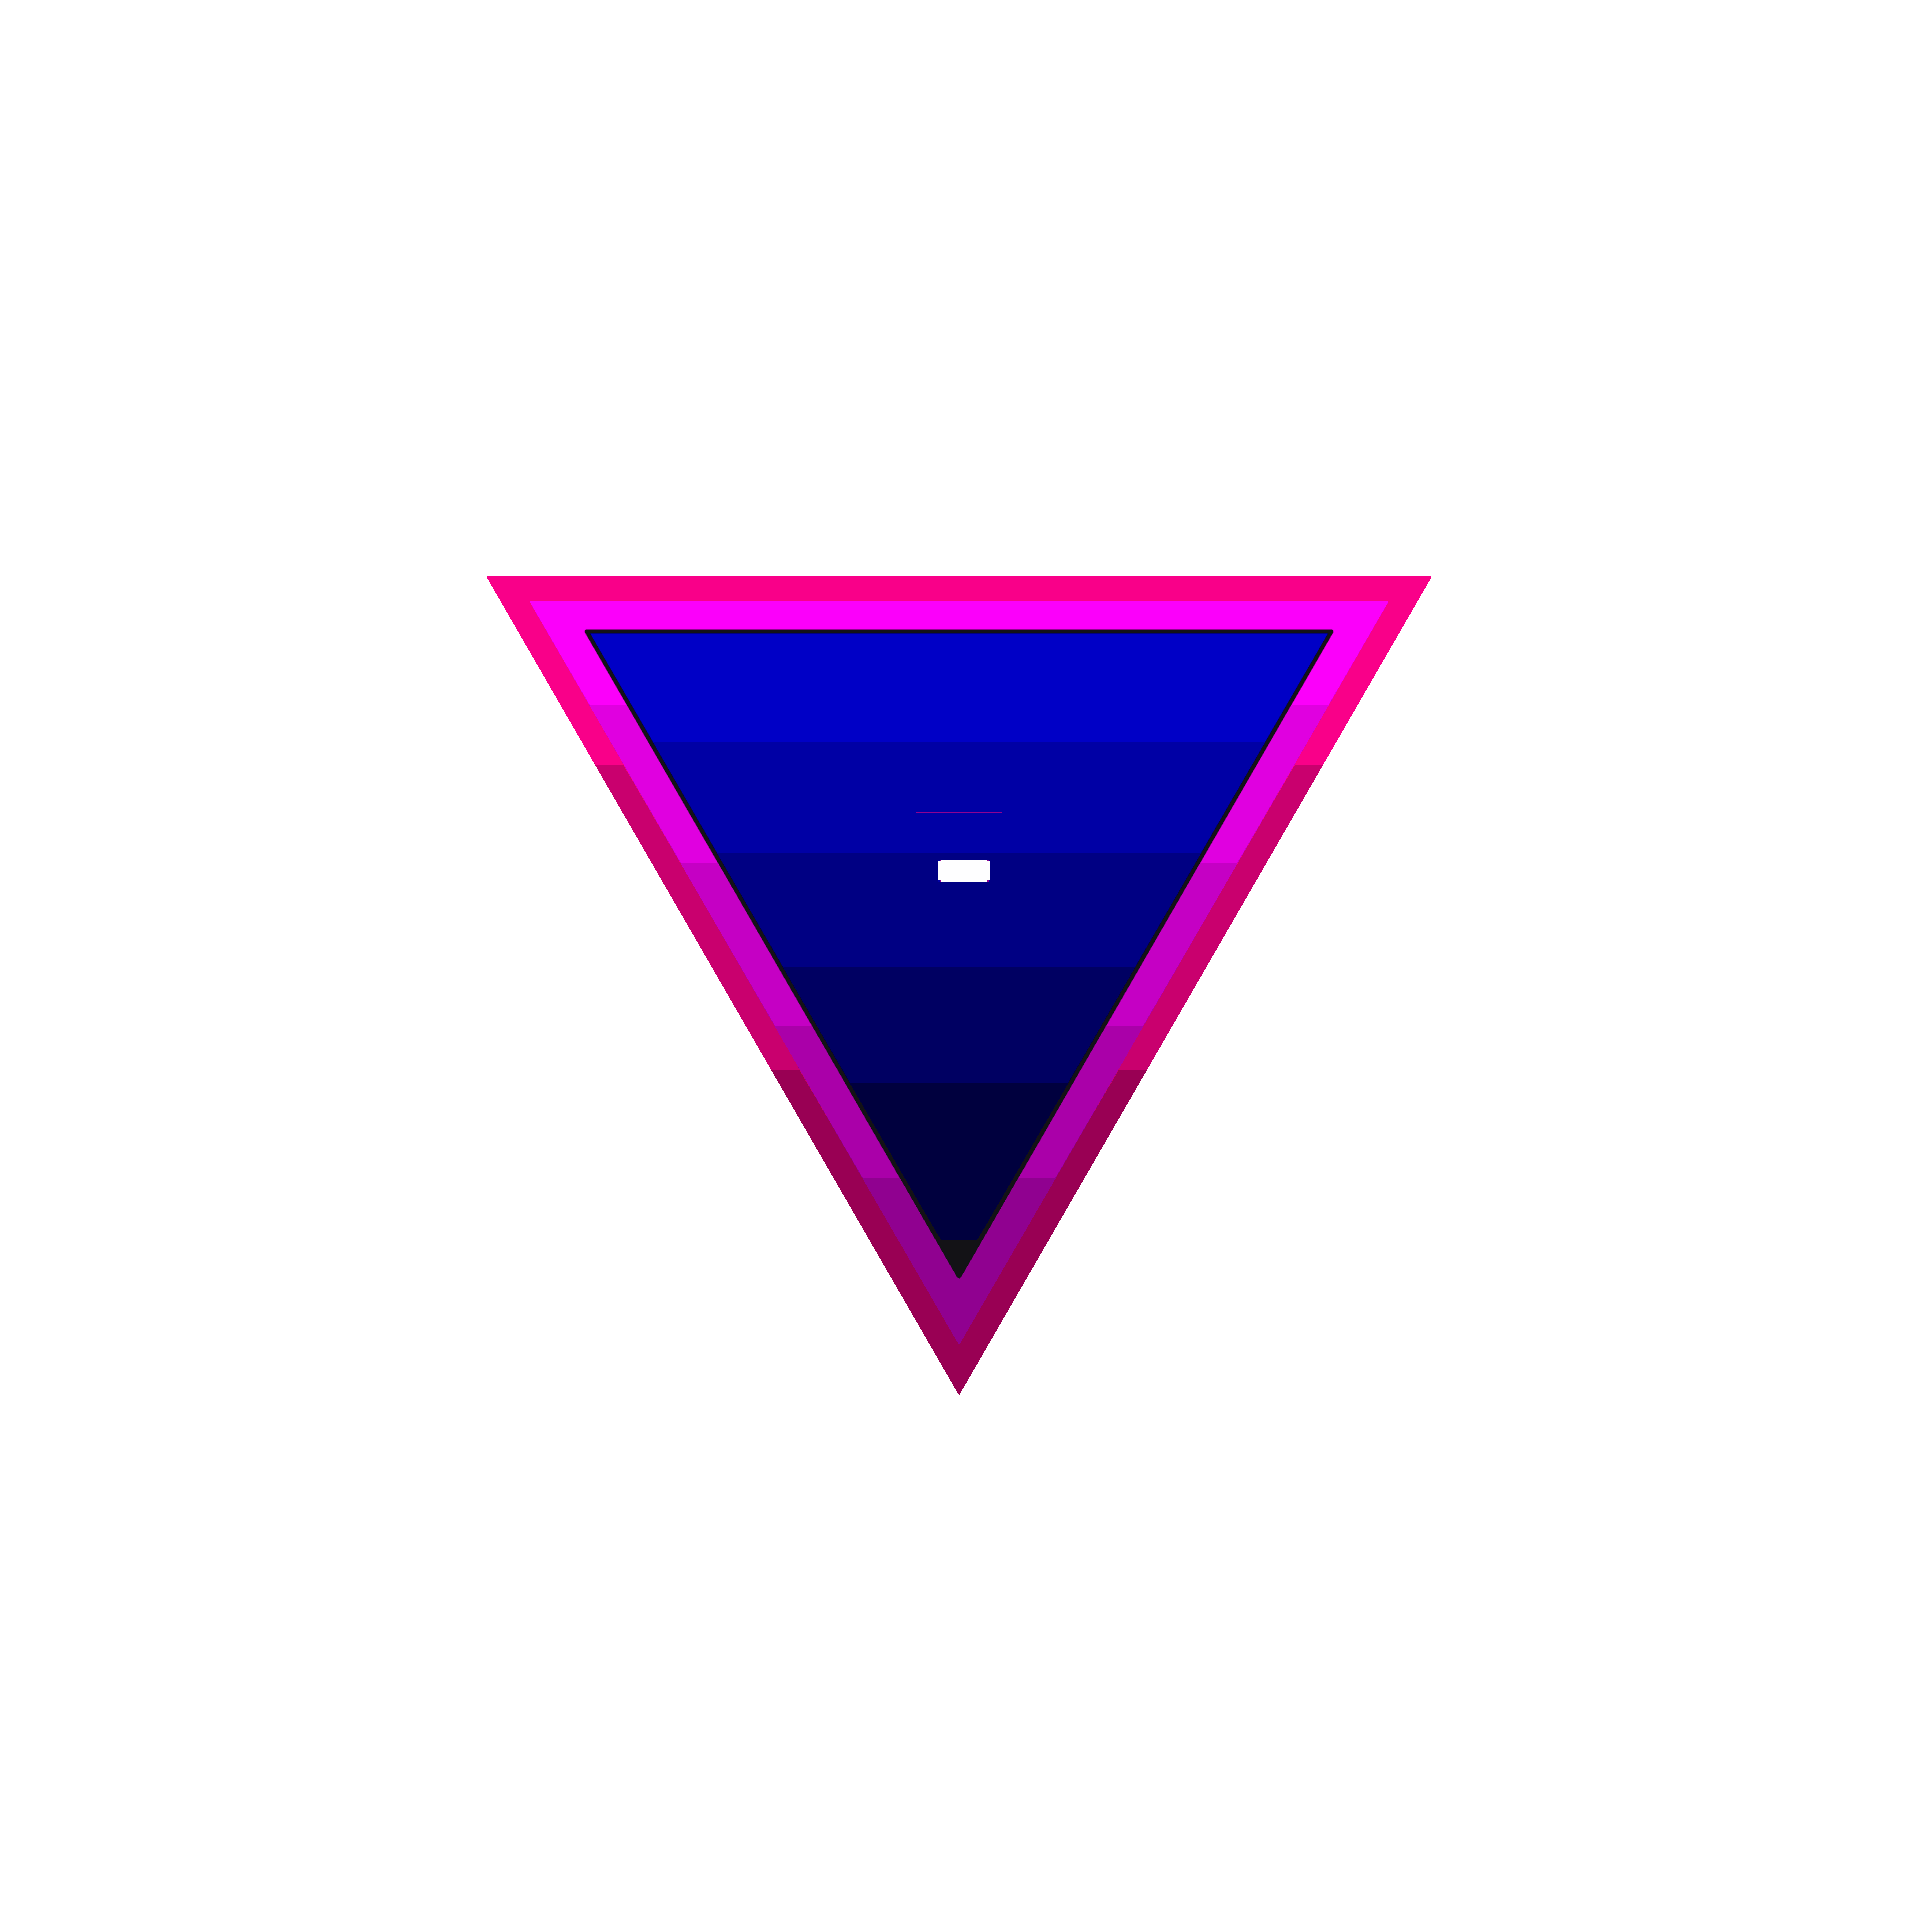
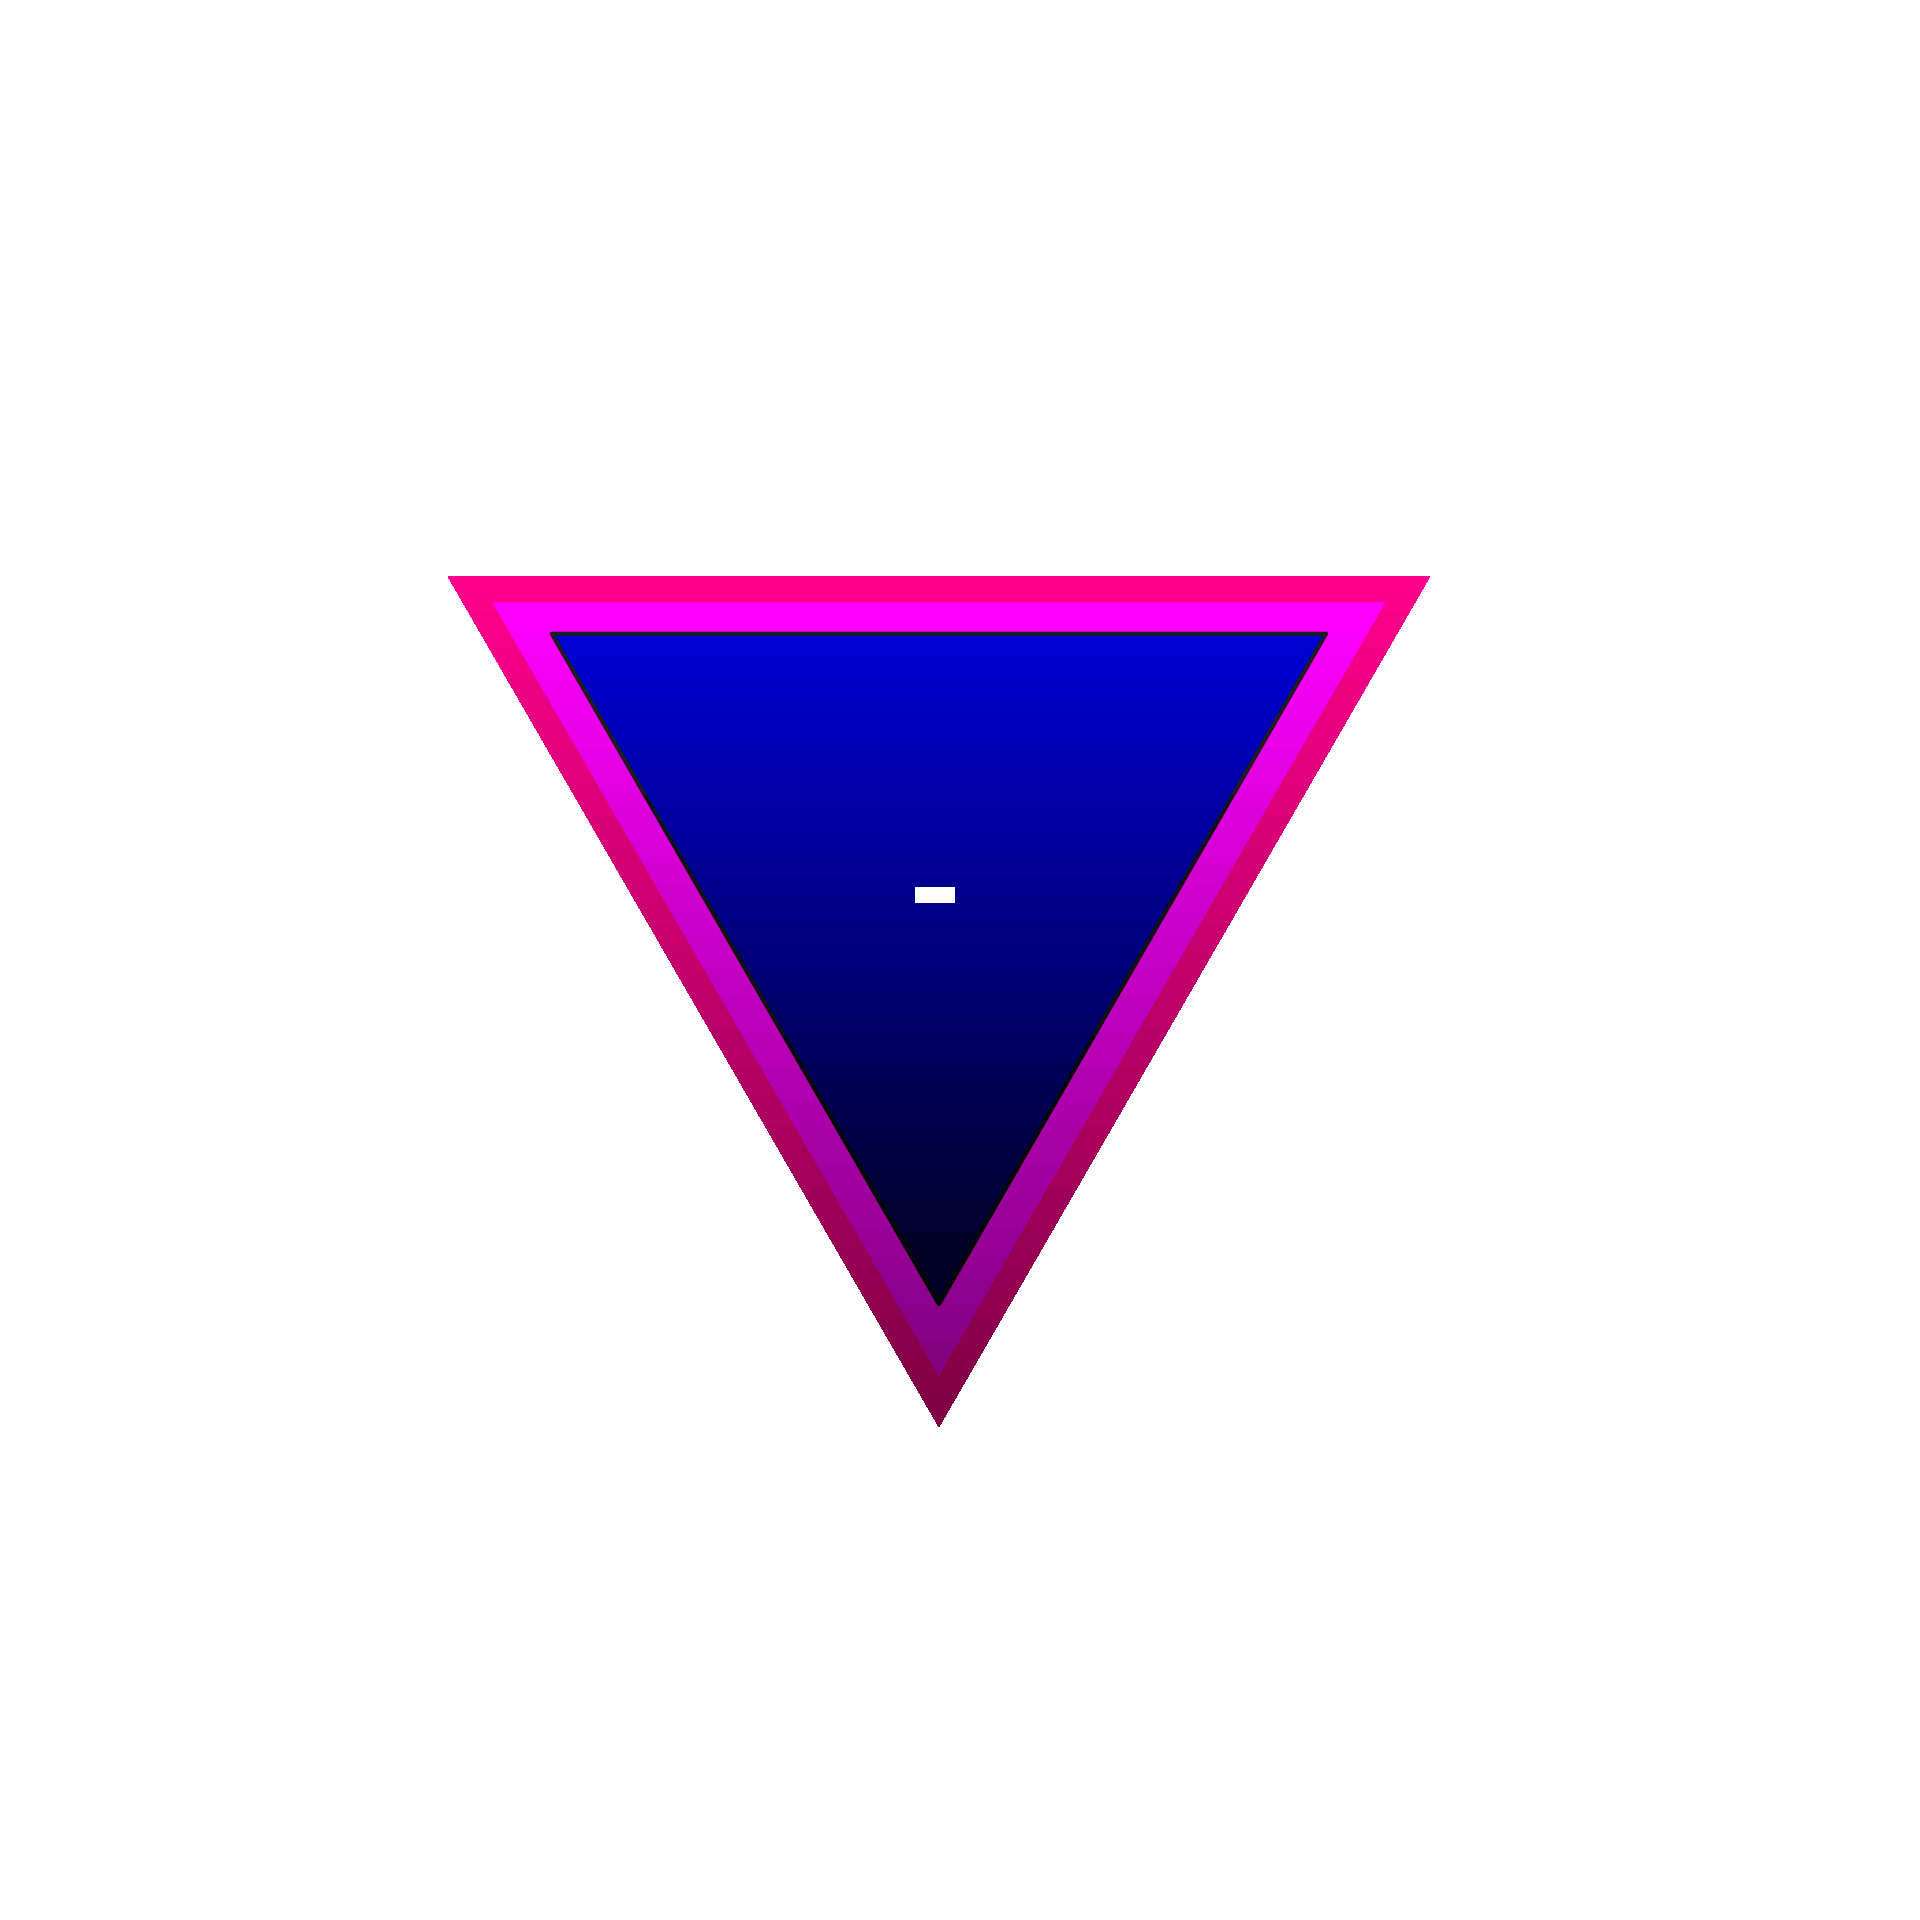
fixed stage select

diff --git a/DX21_05_Init/StageSelect.cpp b/DX21_05_Init/StageSelect.cpp
@@ -22,24 +22,17 @@ bool StageSelect::Init()
 	LoadTexture(g_pDevice, "asset/UI/stage_select/StageSelect_next_normalsize.png", &arrowTexture);
 	LoadTexture(g_pDevice, "asset/UI/stage_select/StageSelect_next_bigsize.png", &arrowHoverTexture);
 
-	
-	//uiButtons.emplace_back(-0.65f, 0.1f, 0.4f, 0.8f, STAGE, buttonTexture, buttonHoverTexture); // go to 1-1
-	//uiButtons.emplace_back(-0.25f, 0.1f, 0.4f, 0.8f, STAGE2, buttonTexture, buttonHoverTexture); // go to 1-2
-	//uiButtons.emplace_back(0.15f, 0.1f, 0.4f, 0.8f, STAGE3, buttonTexture, buttonHoverTexture); // go to 1-3
-	//uiButtons.emplace_back(0.65f, 0.1f, 0.4f, 0.8f, STAGE4, buttonTexture, buttonHoverTexture); // go to 1-4
-	//uiButtons.emplace_back(-0.65f, -0.5f, 0.4f, 0.8f, STAGE5, buttonTexture, buttonHoverTexture); // go to 1-5
-	//uiButtons.emplace_back(-0.25f, -0.5f, 0.4f, 0.8f, STAGE6, buttonTexture, buttonHoverTexture); // go to 1-6
-	//uiButtons.emplace_back(0.15f, -0.5f, 0.4f, 0.8f, STAGE7, buttonTexture, buttonHoverTexture); // go to 1-6
-	//uiButtons.emplace_back(0.65f, -0.5f, 0.4f, 0.8f, BOSS, buttonTexture, buttonHoverTexture); // go to boss
-
+	// top row
 	uiButtons.emplace_back(-0.65f, 0.15f, 0.4f, 0.8f, GAMEPLAY, buttonTexture, buttonHoverTexture);  // go to 1-1
-	uiButtons.emplace_back(-0.3f, 0.15f, 0.4f, 0.8f, GAMEPLAY, buttonTexture, buttonHoverTexture);  // go to 1-2
-	uiButtons.emplace_back(0.06f, 0.15f, 0.4f, 0.8f, GAMEPLAY, buttonTexture, buttonHoverTexture);   // go to 1-3
-	uiButtons.emplace_back(0.43f, 0.15f, 0.4f, 0.8f, GAMEPLAY, buttonTexture, buttonHoverTexture);   // go to 1-4
-	uiButtons.emplace_back(-0.5f, -0.33f, 0.4f, 0.8f, GAMEPLAY, buttonTexture, buttonHoverTexture); // go to 1-5
-	uiButtons.emplace_back(-0.12f, -0.33f, 0.4f, 0.8f, GAMEPLAY, buttonTexture, buttonHoverTexture); // go to 1-6
-	uiButtons.emplace_back(0.26f, -0.33f, 0.4f, 0.8f, GAMEPLAY, buttonTexture, buttonHoverTexture);  // go to 1-7
-	uiButtons.emplace_back(0.63f, -0.33f, 0.4f, 0.8f, GAMEPLAY, bossButtonTexture, bossButtonHoverTexture);  // go to boss
+	uiButtons.emplace_back(-0.3f, 0.15f, 0.4f, 0.8f, GAMEPLAY, buttonTexture, buttonHoverTexture);   // go to 1-3
+	uiButtons.emplace_back(0.06f, 0.15f, 0.4f, 0.8f, GAMEPLAY, buttonTexture, buttonHoverTexture);   // go to 1-5
+	uiButtons.emplace_back(0.43f, 0.15f, 0.4f, 0.8f, GAMEPLAY, buttonTexture, buttonHoverTexture);   // go to 1-7
+
+	// bottom row
+	uiButtons.emplace_back(-0.5f, -0.33f, 0.4f, 0.8f, GAMEPLAY, buttonTexture, buttonHoverTexture);  // go to 1-2
+	uiButtons.emplace_back(-0.12f, -0.33f, 0.4f, 0.8f, GAMEPLAY, buttonTexture, buttonHoverTexture); // go to 1-4
+	uiButtons.emplace_back(0.26f, -0.33f, 0.4f, 0.8f, GAMEPLAY, buttonTexture, buttonHoverTexture);  // go to 1-6
+	uiButtons.emplace_back(0.63f, -0.33f, 0.4f, 0.8f, GAMEPLAY, bossButtonTexture, bossButtonHoverTexture); // go to boss
 	for (auto& btn : uiButtons)
 	{
 		btn.SetHitboxScale(0.5f, 0.3f);
@@ -77,8 +70,9 @@ void StageSelect::Update(float deltaTime)
 			// the first 8 buttons are for the stage
 			if (i >= 0 && i < 8)
 			{
-				// for world 1
-				sceneManager->SwitchToStage(1, i + 1);
+				int stageNumbers[8] = { 1, 3, 5, 7, 2, 4, 6, 8 };
+				sceneManager->SwitchToStage(1, stageNumbers[i]);
+
 				return;
 			}
 			// for the right arrow
@@ -118,15 +112,14 @@ void StageSelect::Draw()
 		float numberHeight = 0.05f;
 		float spaceBetweenNumbers = 0.045f;     // for the space between the numbers
 
-		DrawAreaNumber(1, 1, -0.69f, 0.16f, numberWidth, numberHeight, spaceBetweenNumbers);    // 1-1
-		DrawAreaNumber(1, 2, -0.335f, 0.16f, numberWidth, numberHeight, spaceBetweenNumbers);   // 1-2
-		DrawAreaNumber(1, 3, 0.0215f, 0.16f, numberWidth, numberHeight, spaceBetweenNumbers);    // 1-3
-		DrawAreaNumber(1, 4, 0.395f, 0.16f, numberWidth, numberHeight, spaceBetweenNumbers);    // 1-4
-		DrawAreaNumber(1, 5, -0.535f, -0.32f, numberWidth, numberHeight, spaceBetweenNumbers);  // 1-5
-		DrawAreaNumber(1, 6, -0.155f, -0.32f, numberWidth, numberHeight, spaceBetweenNumbers);  // 1-6	
-		DrawAreaNumber(1, 7, 0.225f, -0.32f, numberWidth, numberHeight, spaceBetweenNumbers);   // 1-7
+		DrawAreaNumber(1, 1, -0.693f, 0.155f, numberWidth, numberHeight, spaceBetweenNumbers);    // 1-1    1
+		DrawAreaNumber(1, 3, -0.343f, 0.155f, numberWidth, numberHeight, spaceBetweenNumbers);   // 1-2    3
+		DrawAreaNumber(1, 5, 0.018f, 0.155f, numberWidth, numberHeight, spaceBetweenNumbers);    // 1-3   5
+		DrawAreaNumber(1, 7, 0.39f, 0.155f, numberWidth, numberHeight, spaceBetweenNumbers);    // 1-4    7
+		DrawAreaNumber(1, 2, -0.54f, -0.325f, numberWidth, numberHeight, spaceBetweenNumbers);  // 1-5    2
+		DrawAreaNumber(1, 4, -0.16f, -0.325f, numberWidth, numberHeight, spaceBetweenNumbers);  // 1-6	  4
+		DrawAreaNumber(1, 6, 0.22f, -0.325f, numberWidth, numberHeight, spaceBetweenNumbers);   // 1-7    6
 	}
-
 }
 
 void StageSelect::DrawAreaNumber(int world, int stage, float x, float y, float width, float height, float space)

diff --git a/DX21_05_Init/StageSelect2.cpp b/DX21_05_Init/StageSelect2.cpp
@@ -22,14 +22,16 @@ bool StageSelect2::Init()
     LoadTexture(g_pDevice, "asset/UI/stage_select/StageSelect_next_normalsize.png", &arrowTexture);
     LoadTexture(g_pDevice, "asset/UI/stage_select/StageSelect_next_bigsize.png", &arrowHoverTexture);
 
-    // add them when I have the actual stage
+    // top row
     uiButtons.emplace_back(-0.65f, 0.15f, 0.4f, 0.8f, GAMEPLAY, buttonTexture, buttonHoverTexture);  // go to 2-1
-    uiButtons.emplace_back(-0.3f, 0.15f, 0.4f, 0.8f, GAMEPLAY, buttonTexture, buttonHoverTexture);  // go to 2-2
-    uiButtons.emplace_back(0.06f, 0.15f, 0.4f, 0.8f, GAMEPLAY, buttonTexture, buttonHoverTexture);   // go to 2-3
-    uiButtons.emplace_back(0.43f, 0.15f, 0.4f, 0.8f, GAMEPLAY, buttonTexture, buttonHoverTexture);   // go to 2-4
-    uiButtons.emplace_back(-0.5f, -0.33f, 0.4f, 0.8f, GAMEPLAY, buttonTexture, buttonHoverTexture); // go to 2-5
-    uiButtons.emplace_back(-0.12f, -0.33f, 0.4f, 0.8f, GAMEPLAY, buttonTexture, buttonHoverTexture); // go to 2-6
-    uiButtons.emplace_back(0.26f, -0.33f, 0.4f, 0.8f, GAMEPLAY, buttonTexture, buttonHoverTexture);  // go to 2-7
+    uiButtons.emplace_back(-0.3f, 0.15f, 0.4f, 0.8f, GAMEPLAY, buttonTexture, buttonHoverTexture);   // go to 2-3
+    uiButtons.emplace_back(0.06f, 0.15f, 0.4f, 0.8f, GAMEPLAY, buttonTexture, buttonHoverTexture);   // go to 2-5
+    uiButtons.emplace_back(0.43f, 0.15f, 0.4f, 0.8f, GAMEPLAY, buttonTexture, buttonHoverTexture);   // go to 2-7
+
+    // bottom row
+    uiButtons.emplace_back(-0.5f, -0.33f, 0.4f, 0.8f, GAMEPLAY, buttonTexture, buttonHoverTexture);  // go to 2-2
+    uiButtons.emplace_back(-0.12f, -0.33f, 0.4f, 0.8f, GAMEPLAY, buttonTexture, buttonHoverTexture); // go to 2-4
+    uiButtons.emplace_back(0.26f, -0.33f, 0.4f, 0.8f, GAMEPLAY, buttonTexture, buttonHoverTexture);  // go to 2-6
     uiButtons.emplace_back(0.63f, -0.33f, 0.4f, 0.8f, GAMEPLAY, bossButtonTexture, bossButtonHoverTexture);  // go to boss
     for (auto& btn : uiButtons)
     {
@@ -73,8 +75,9 @@ void StageSelect2::Update(float deltaTime)
             //buttons for the areas (stage) ADD LATER
             if (i >= 0 && i < 8)
             {
-                // Go to World2Area1 and to the other onws
-                sceneManager->SwitchToStage(2, i + 1);
+                // Map button index to stage number
+                int stageNumbers[8] = { 1, 3, 5, 7, 2, 4, 6, 8 }; // 8 is boss
+                sceneManager->SwitchToStage(2, stageNumbers[i]);
                 return;
             }
             // left arrow to go to stageselect world1
@@ -123,13 +126,16 @@ void StageSelect2::Draw()
         float numberHeight = 0.05f;
         float spaceBetweenNumbers = 0.045f;     // for the space between the numbers
 
-        DrawAreaNumber(2, 1, -0.69f, 0.16f, numberWidth, numberHeight, spaceBetweenNumbers);    // 2-1
-        DrawAreaNumber(2, 2, -0.335f, 0.16f, numberWidth, numberHeight, spaceBetweenNumbers);   // 2-2
-        DrawAreaNumber(2, 3, 0.0215f, 0.16f, numberWidth, numberHeight, spaceBetweenNumbers);   // 2-3
-        DrawAreaNumber(2, 4, 0.395f, 0.16f, numberWidth, numberHeight, spaceBetweenNumbers);    // 2-4
-        DrawAreaNumber(2, 5, -0.535f, -0.32f, numberWidth, numberHeight, spaceBetweenNumbers);  // 2-5
-        DrawAreaNumber(2, 6, -0.155f, -0.32f, numberWidth, numberHeight, spaceBetweenNumbers);  // 2-6	
-        DrawAreaNumber(2, 7, 0.225f, -0.32f, numberWidth, numberHeight, spaceBetweenNumbers);   // 2-7
+        // top row
+        DrawAreaNumber(2, 1, -0.693f, 0.155f, numberWidth, numberHeight, spaceBetweenNumbers);     // 2-1
+        DrawAreaNumber(2, 3, -0.343f, 0.155f, numberWidth, numberHeight, spaceBetweenNumbers);    // 2-3
+        DrawAreaNumber(2, 5, 0.018f, 0.155f, numberWidth, numberHeight, spaceBetweenNumbers);    // 2-5
+        DrawAreaNumber(2, 7, 0.39f,  0.155f, numberWidth, numberHeight, spaceBetweenNumbers);     // 2-7
+
+        // bottom row
+        DrawAreaNumber(2, 2, -0.54f, -0.325f, numberWidth, numberHeight, spaceBetweenNumbers);   // 2-2
+        DrawAreaNumber(2, 4, -0.16f, -0.325f, numberWidth, numberHeight, spaceBetweenNumbers);   // 2-4
+        DrawAreaNumber(2, 6, 0.22f, -0.325f, numberWidth, numberHeight, spaceBetweenNumbers);    // 2-6
     }
 }
 
